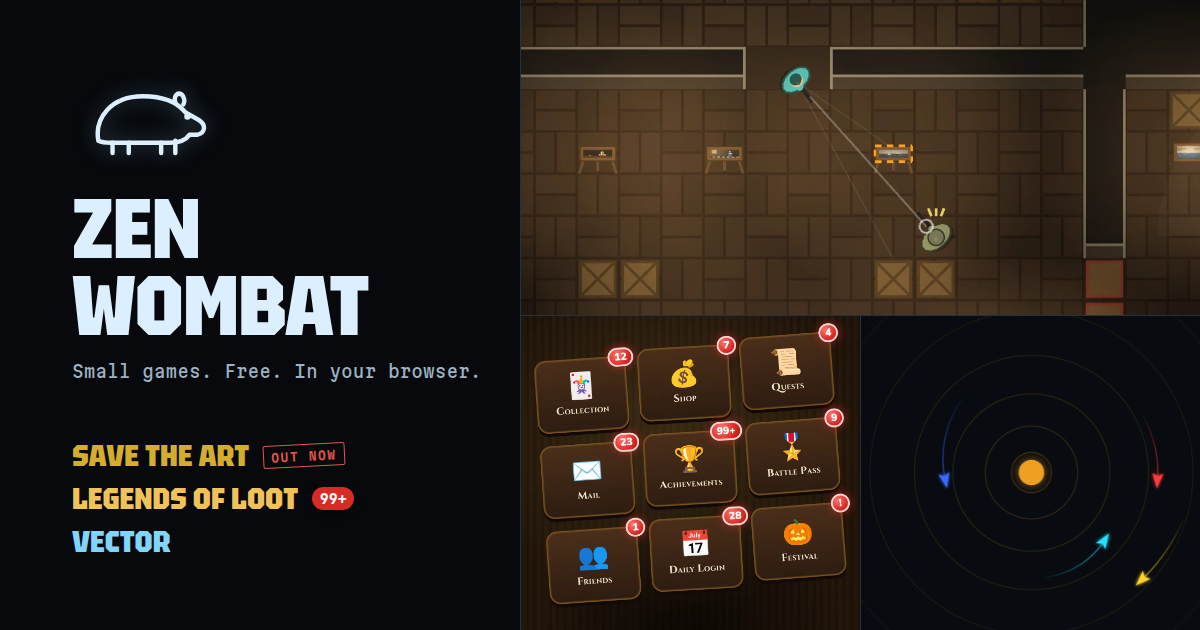
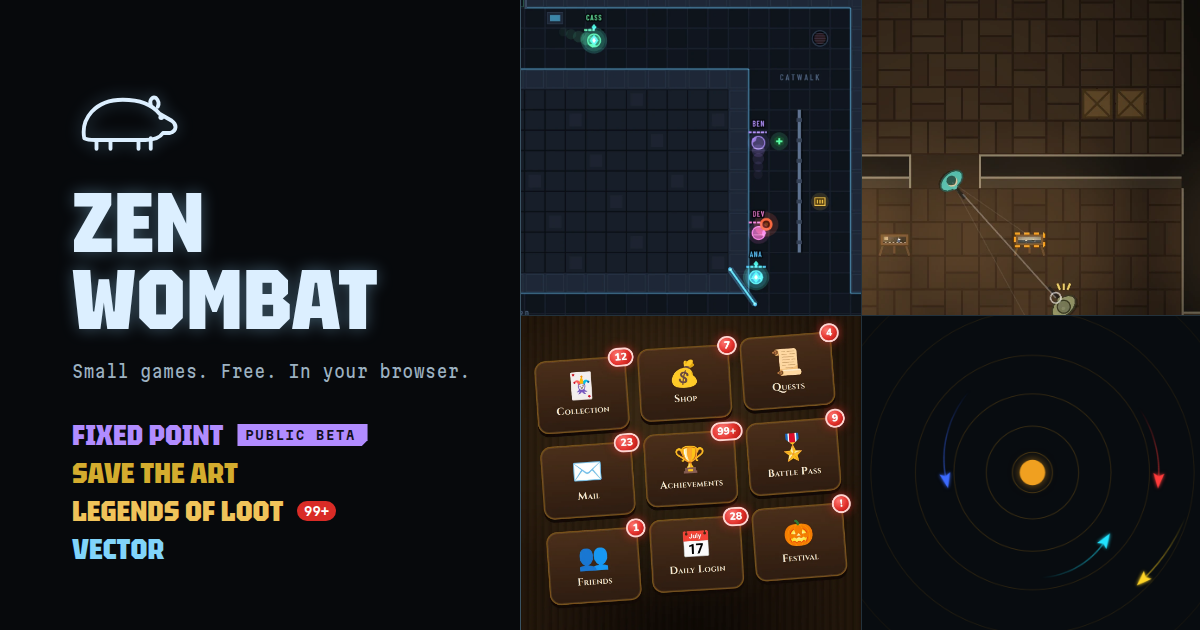
Fixed Point joins the menu at the top, in public beta
New first row, selected on load: Fixed Point in its second ghost's violet,
a chamfered "Public beta" tag, and Play to fixedpoint.pages.dev. Its art is
a 1440x1200 still from the timeline replay of a bot-played four-slot run.
Save the Art drops its "Out now" stamp. The About section names all four
games and calls the wombat the chillest animal you'll meet. The share card
lists all four (og.png?v=4); meta, JSON-LD, README and DESIGN.md follow.

Claude-Session: https://claude.ai/code/session_01SskKoTQ5j2AN9cYLv1VuFA

diff --git a/site/index.html b/site/index.html
@@ -8,7 +8,7 @@
     <title>Zen Wombat: small games you play in your browser</title>
     <meta
       name="description"
-      content="Zen Wombat makes small, free browser games. Recover a stolen art collection in Save the Art, clear 99+ notifications in Legends of Loot, or dogfight with real momentum in Vector."
+      content="Zen Wombat makes small, free browser games. Take turns keeping each other's ghosts alive in Fixed Point, recover a stolen art collection in Save the Art, clear 99+ notifications in Legends of Loot, or dogfight with real momentum in Vector."
     />
     <link rel="canonical" href="https://zenwombat.com/" />
     <!-- Link previews (Discord, Slack, iMessage, etc.). Image URLs must be absolute. -->
@@ -17,15 +17,15 @@
     <meta property="og:title" content="Zen Wombat" />
     <meta
       property="og:description"
-      content="Small, free games you play in your browser. Save the Art, Legends of Loot and Vector."
+      content="Small, free games you play in your browser. Fixed Point, Save the Art, Legends of Loot and Vector."
     />
     <meta property="og:url" content="https://zenwombat.com/" />
-    <meta property="og:image" content="https://zenwombat.com/og.png?v=2" />
+    <meta property="og:image" content="https://zenwombat.com/og.png?v=4" />
     <meta property="og:image:width" content="1200" />
     <meta property="og:image:height" content="630" />
     <meta
       property="og:image:alt"
-      content="Zen Wombat: a game-select screen with Save the Art, Legends of Loot and Vector."
+      content="Zen Wombat: a game-select screen with Fixed Point, Save the Art, Legends of Loot and Vector."
     />
     <meta name="twitter:card" content="summary_large_image" />
     <link rel="icon" href="favicon.svg" type="image/svg+xml" />
@@ -41,6 +41,20 @@
             "name": "Zen Wombat",
             "url": "https://zenwombat.com/",
             "logo": "https://zenwombat.com/favicon.svg"
+          },
+          {
+            "@type": "VideoGame",
+            "name": "Fixed Point",
+            "url": "https://fixedpoint.pages.dev/",
+            "image": "https://zenwombat.com/img/fixed-point.webp",
+            "description": "An asynchronous co-op time-loop shooter: friends take turns through one shared link, and every earlier player replays as a ghost the next one has to keep alive.",
+            "genre": ["Action", "Shooter"],
+            "playMode": ["CoOp", "MultiPlayer"],
+            "gamePlatform": "Web browser",
+            "applicationCategory": "Game",
+            "operatingSystem": "Any",
+            "isAccessibleForFree": true,
+            "publisher": { "@id": "https://zenwombat.com/#studio" }
           },
           {
             "@type": "VideoGame",
@@ -102,12 +116,36 @@
 
     <main>
       <ol class="menu" aria-label="Games">
-        <li class="row row--save is-selected" data-row>
+        <li class="row row--fixed is-selected" data-row>
+          <div class="row__text">
+            <h2 class="row__title">
+              <svg class="cursor" viewBox="0 0 20 20" aria-hidden="true"><path d="M3 3 18 10 3 17 7 10Z" /></svg>
+              <span>Fixed Point</span>
+              <span class="cut">Public beta</span>
+            </h2>
+            <p class="row__hook">
+              Take turns through one shared link. Everyone who played before you replays as a ghost, and they're
+              already dead unless you save them.
+            </p>
+            <ul class="facts" aria-label="Details">
+              <li>Async co-op, 1–4 players</li>
+              <li>Desktop</li>
+              <li>Mouse + keys or gamepad</li>
+            </ul>
+            <a class="play" href="https://fixedpoint.pages.dev/" data-play>
+              Play<svg viewBox="0 0 20 20" aria-hidden="true"><path d="M4 10h11M11 5l5 5-5 5" /></svg>
+            </a>
+          </div>
+          <a class="row__art" href="https://fixedpoint.pages.dev/" tabindex="-1" aria-hidden="true">
+            <img src="img/fixed-point.webp" width="600" height="500" alt="" decoding="async" />
+          </a>
+        </li>
+
+        <li class="row row--save" data-row>
           <div class="row__text">
             <h2 class="row__title">
               <svg class="cursor" viewBox="0 0 20 20" aria-hidden="true"><path d="M3 3 18 10 3 17 7 10Z" /></svg>
               <span>Save the Art</span>
-              <span class="stamp">Out now</span>
             </h2>
             <p class="row__hook">
               1944. Recover a stolen collection from the guards packing and burning it. Every bullet you fire might go
@@ -207,10 +245,11 @@
           <h2 id="about-title">A very small studio</h2>
           <p>
             Zen Wombat makes short games that run in a browser tab. No downloads, no accounts, no ads. Each one takes a
-            single idea and follows it all the way: a launcher made entirely of notifications, a dogfight where
-            stopping takes as much thrust as starting.
+            single idea and follows it all the way: a co-op shooter played in turns, guarding the ghosts of everyone
+            who went before you; a raid where any stray bullet might hit a Rembrandt; a launcher made entirely of
+            notifications; a dogfight where stopping takes as much thrust as starting.
           </p>
-          <p>We're named after the calmest animal we know. Press play whenever you like.</p>
+          <p>We're named after the chillest animal you'll meet. Press play whenever you like.</p>
         </div>
       </section>
     </main>

diff --git a/site/styles.css b/site/styles.css
@@ -39,6 +39,10 @@
   --art-ivory: #efe6d2;
   --art-stamp: #e0574a;
 
+  /* Fixed Point: its second ghost's violet (the game draws history in a duller one) on a night-time station */
+  --fixed-field: #120f1d;
+  --fixed-violet: #b18cff;
+
   --display: 'Tektur', 'Arial Narrow', sans-serif;
   --mono: 'Martian Mono', ui-monospace, monospace;
   --text: 'Tektur', system-ui, sans-serif;
@@ -168,6 +172,11 @@ a {
   --field: var(--art-field);
 }
 
+.row--fixed {
+  --accent: var(--fixed-violet);
+  --field: var(--fixed-field);
+}
+
 .row.is-selected {
   background: var(--field);
 }
@@ -271,6 +280,21 @@ a {
   letter-spacing: 0.14em;
   line-height: 1;
   transform: rotate(-3deg);
+}
+
+/* Fixed Point's kicker: a solid tag with one corner cut, like the game's chamfered panels */
+.cut {
+  align-self: center;
+  padding: 0.4em 0.9em 0.35em 0.6em;
+  background: var(--fixed-violet);
+  color: var(--fixed-field);
+  font-family: var(--mono);
+  font-weight: 600;
+  font-stretch: 100%;
+  font-size: 0.75rem;
+  letter-spacing: 0.14em;
+  line-height: 1;
+  clip-path: polygon(0 0, 100% 0, 100% calc(100% - 7px), calc(100% - 7px) 100%, 0 100%);
 }
 
 .row__hook {
@@ -380,8 +404,13 @@ a {
   background: #0f0c07;
 }
 
+.row--fixed .row__art {
+  background: #0b0f17;
+}
+
 .row--loot .row__art img,
-.row--save .row__art video {
+.row--save .row__art video,
+.row--fixed .row__art img {
   position: absolute;
   top: 50%;
   left: 50%;
@@ -641,6 +670,10 @@ kbd svg {
 
   .row--save .row__hook {
     color: var(--art-ivory);
+  }
+
+  .row--fixed .row__hook {
+    color: var(--ink);
   }
 
   .row .soon {

diff --git a/DESIGN.md b/DESIGN.md
@@ -14,6 +14,12 @@ colors:
   loot-red: "#d92b26"
   vec-field: "#0a131a"
   vec-cyan: "#81d4fa"
+  art-field: "#1d170d"
+  art-gilt: "#d4ac2e"
+  art-ivory: "#efe6d2"
+  art-stamp: "#e0574a"
+  fixed-field: "#120f1d"
+  fixed-violet: "#b18cff"
 typography:
   display:
     fontFamily: "Tektur, 'Arial Narrow', sans-serif"
@@ -129,6 +135,7 @@ The palette is a cold phosphor monochrome that hands over to each game's own col
 
 ### Primary
 - **Loot Gold** (loot-gold): Legends of Loot's accent. Used for the selected title, the Play outline and fill, and the cursor ship on that row.
+- **Ghost Violet** (fixed-violet): Fixed Point's accent, the violet of its second ghost (history itself is a duller violet in the game). Used for the selected title, Play, the cursor ship and its solid Public beta tag, whose bottom-right corner is cut like the game's chamfered panels. Cyan (the game's system light) and gold (its live player) belong to Vector and Save the Art here.
 - **Phosphor Cyan** (vec-cyan): Vector's accent, and the house default accent when no game owns the surface (404, focus fallback, selection highlight, keycap glyphs, caret, footer link hover).
 
 ### Secondary
@@ -142,7 +149,7 @@ The palette is a cold phosphor monochrome that hands over to each game's own col
 - **Faint Phosphor** (ink-faint): non-text only (about 3.9:1 on ground). Used for fact separators, keycap borders, footer link underlines and the scrollbar thumb.
 - **Phosphor Rule** (rule): every hairline: the strip, row and art dividers, the controls bar and the footer.
 - **Phosphor Bloom** (bloom): the drop-shadow colour for line-ink bloom.
-- **Loot Field** (loot-field) and **Vector Field** (vec-field): each row's lit background, shown only when the row is selected (and always on narrow screens).
+- **Loot Field** (loot-field), **Vector Field** (vec-field) and **Fixed Field** (fixed-field): each row's lit background, shown only when the row is selected (and always on narrow screens).
 
 ### Named Rules
 **The Lights-On Rule.** A game's colours stay on its own row. At rest the row carries its accent only on the Play outline and its own badge. Selection lights the field, title, hook and cursor (on narrow screens every row is lit). Shared chrome stays phosphor monochrome, with Phosphor Cyan as its only accent.
@@ -247,7 +254,7 @@ Each row is a full-width band that sets its own accent and field.
 - **At rest:** tube-black ground, dim title, dim hook, and art dimmed on pointer devices.
 - **Selected:** the field fades in over 600ms, the title takes the accent over 400ms, and the hook brightens to ink (cream on Legends of Loot). The cursor ship slides in from 10px left with an accent bloom.
 - **Contents, in order:** title (with an optional real subtitle or badge), hook, a facts line split by faint "/" separators, Play, and an optional mono note.
-- **Art panel:** sits on a hairline divider. Legends of Loot uses key art masked to fade at its edges. Vector uses a live canvas of its four ships orbiting a gravity well. Save the Art uses a muted 5s loop of a raid, with the same edge mask, poster frame and play rules as the canvas (on screen, visible tab, never under reduced motion).
+- **Art panel:** sits on a hairline divider. Legends of Loot uses key art masked to fade at its edges, and Fixed Point a still from its timeline replay (four ghosts on the catwalk) under the same mask. Vector uses a live canvas of its four ships orbiting a gravity well. Save the Art uses a muted 5s loop of a raid, with the same edge mask, poster frame and play rules as the canvas (on screen, visible tab, never under reduced motion).
 - **Motion:** all motion uses ease-out cubic-bezier(0.16, 1, 0.3, 1). Under reduced motion, transitions collapse to near zero.
 
 ## Do's and Don'ts

diff --git a/README.md b/README.md
@@ -2,6 +2,7 @@
 
 The Zen Wombat studio homepage: one static page linking to the studio's browser games.
 
+- Fixed Point: https://fixedpoint.pages.dev (public beta; working title)
 - Save the Art: https://zenwombat.itch.io/save-the-art
 - Legends of Loot: https://legendsofloot.zenwombat.com
 - Vector: https://vector.zenwombat.com
